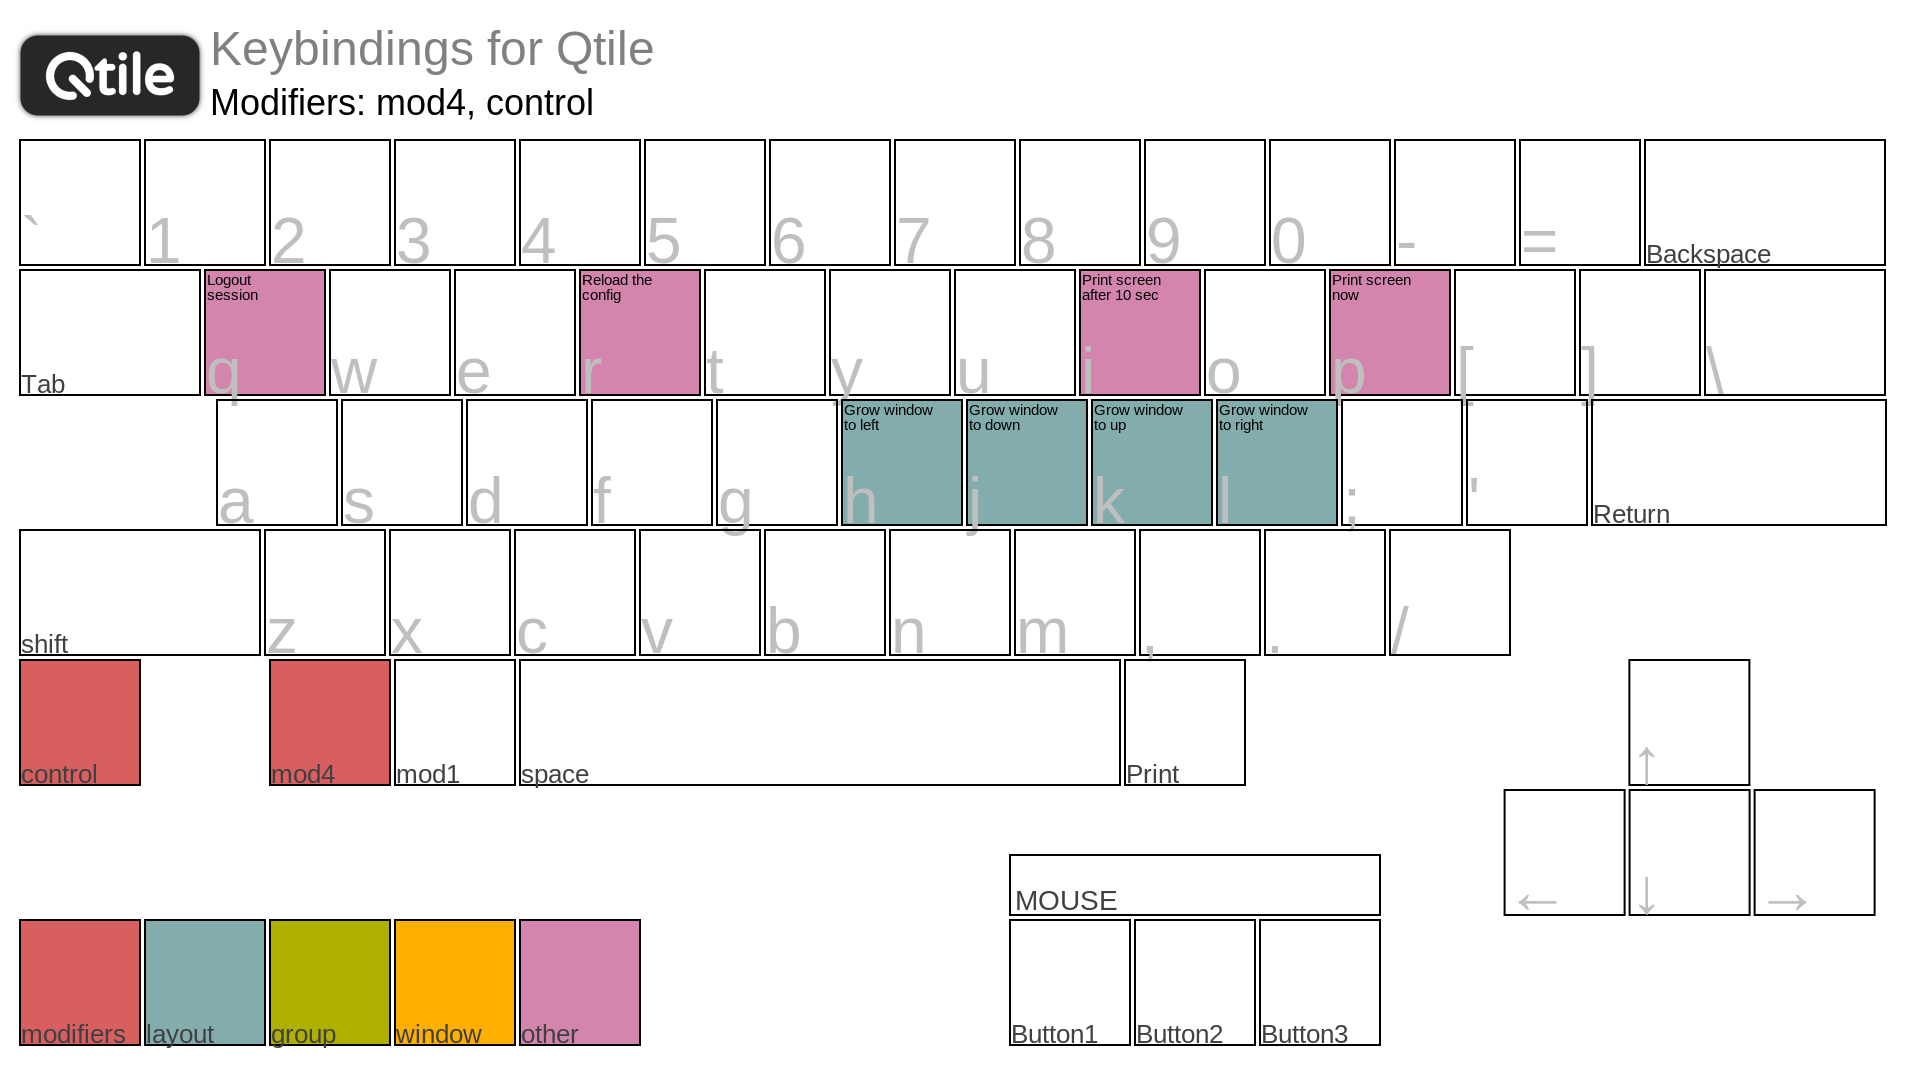
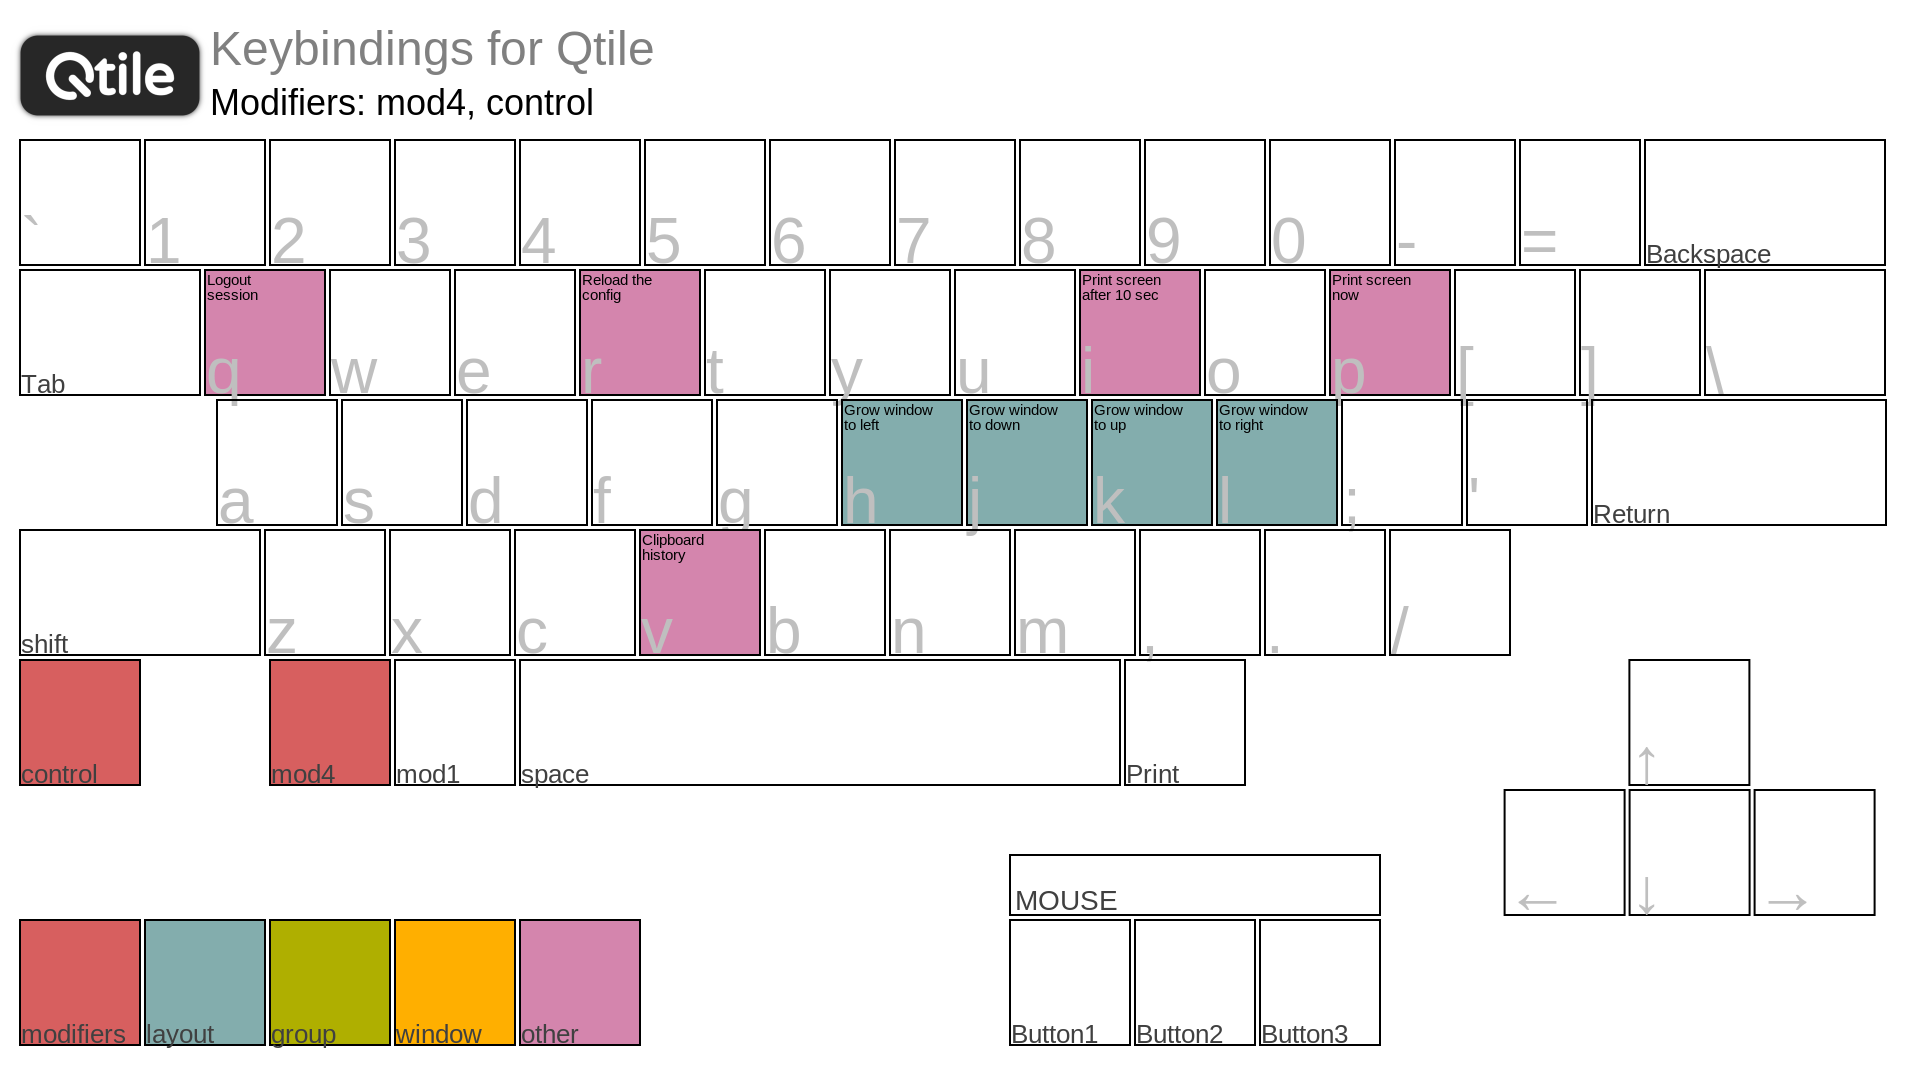
Setting up ClipMenu and performing the **bare minimum** required configuration, plus adding a TODO list for other features.

Changed region(s): [[0.3125, 0.4889, 0.4062, 0.6111]]

diff --git a/qtile/modules/dmenu_clipmenu_menu.py b/qtile/modules/dmenu_clipmenu_menu.py
@@ -1,0 +1,66 @@
+"""
+clipmenu
+========
+
+cdown/clipmenu: Clipboard management using dmenu
+https://github.com/cdown/clipmenu
+"""
+
+import subprocess
+#
+from libqtile import qtile
+#
+from modules.variables import font_set
+from theme_colors import Theme_Colors
+
+
+#
+# TODO: 2026-11-11
+#   Include the command to clear all clipboard contents (`clipdel -d '.*'`) in the very first line.
+#
+# TODO: 2026-11-11
+#   Though perhaps not the right place to discuss this:
+#     1. Settings for applications that should be excluded from ClipMenu (e.g., password managers).
+#        This requires dotfiles.
+#     2. Approach for integration with `fzf`.
+#
+def dmenu_clipmenu_menu(qtile):
+
+  #
+  #
+  #
+
+  font_setting_font_size = 18
+  font_setting = '-'.join([font_set['sub1'], str(font_setting_font_size),])
+
+  #
+  # TODO: 2026-11-11
+  #   Implement shared, externalized configurations, including those for the power menu.
+  #   It seems the only things that can be shared are `-b` and the color scheme.
+  #
+  dmenu_conf_common = [
+    'clipmenu',
+    '-b',
+    '-fn', font_setting,
+    '-nf', Theme_Colors['DarkBlue_default'],
+    '-nb', Theme_Colors['Oreange'],
+    '-sf', Theme_Colors['Oreange'],
+    '-sb', Theme_Colors['DarkBlue_default'],
+  ]
+
+  #
+  #
+  #
+
+  dmenu_conf_clip = dmenu_conf_common + [
+    '-p', 'Clip menu!',
+  ]
+
+  result = subprocess.run(
+    dmenu_conf_clip,
+    text = True,
+    capture_output = True,
+  )
+
+  select_power = result.stdout.strip()
+

diff --git a/qtile/modules/keys.py b/qtile/modules/keys.py
@@ -16,6 +16,7 @@ from modules.variables import (
 )
 from modules.functions import focus_next_floating, spawn_by_group
 from modules.dmenu_power_menu import dmenu_power_menu
+from modules.dmenu_clipmenu_menu import dmenu_clipmenu_menu
 
 
 keys = [
@@ -99,8 +100,6 @@ keys = [
 
 
   Key([MOD4],          'r', lazy.spawncmd(),      desc = 'Spawn a command using a prompt widget'),
-  # TODO:
-  #  Distinguishing between success and failure when reloading Qtile might be difficult, but should we issue a notification?
   Key([MOD4, CONTROL], 'r', lazy.reload_config(), desc = 'Reload the config'),
   Key([MOD4, CONTROL], 'q', lazy.shutdown(),      desc = 'Logout session'),
   Key([MOD4],          'd', lazy.function(dmenu_power_menu), desc = 'Run power menu'),
@@ -115,6 +114,8 @@ keys = [
   #      https://github.com/dollplayer2501/dotfiles_ver3_terminal/blob/main/fish/functions/my_scrot_wait.fish
   Key([MOD4, CONTROL], 'p', lazy.spawn("fish -c 'my_scrot_now'"),  desc = 'Print screen now'),
   Key([MOD4, CONTROL], 'i', lazy.spawn("fish -c 'my_scrot_wait'"), desc = 'Print screen after 10 sec'),
+
+  Key([MOD4, CONTROL], 'v', lazy.function(dmenu_clipmenu_menu), desc = 'Clipboard history'),
 
 
   KeyChord([MOD4], 'z', [

diff --git a/qtile/modules/scratchpad.py b/qtile/modules/scratchpad.py
@@ -49,6 +49,11 @@ keys.extend([
 
   KeyChord([MOD4], 'c', [
       Key([], 't', lazy.group['scratchpad'].dropdown_toggle('term'), desc = 'Dropdown termiinal'),
+
+      #
+      # TODO: 2026-11-11
+      #   It is highly likely that this feature is not enabled.
+      #
       Key([], 'f', lazy.group['scratchpad'].dropdown_toggle('filer'), desc = 'Dropdown file explorer'),
     ],
     mode = False,

diff --git a/qtile/modules/functions.py b/qtile/modules/functions.py
@@ -4,8 +4,6 @@ Functions
 
 A group of functions that I may be using on my own.
 Each individual function needs to be reviewed.
-
-TODO: Adding Docstrings to individual functions?
 """
 
 import subprocess
